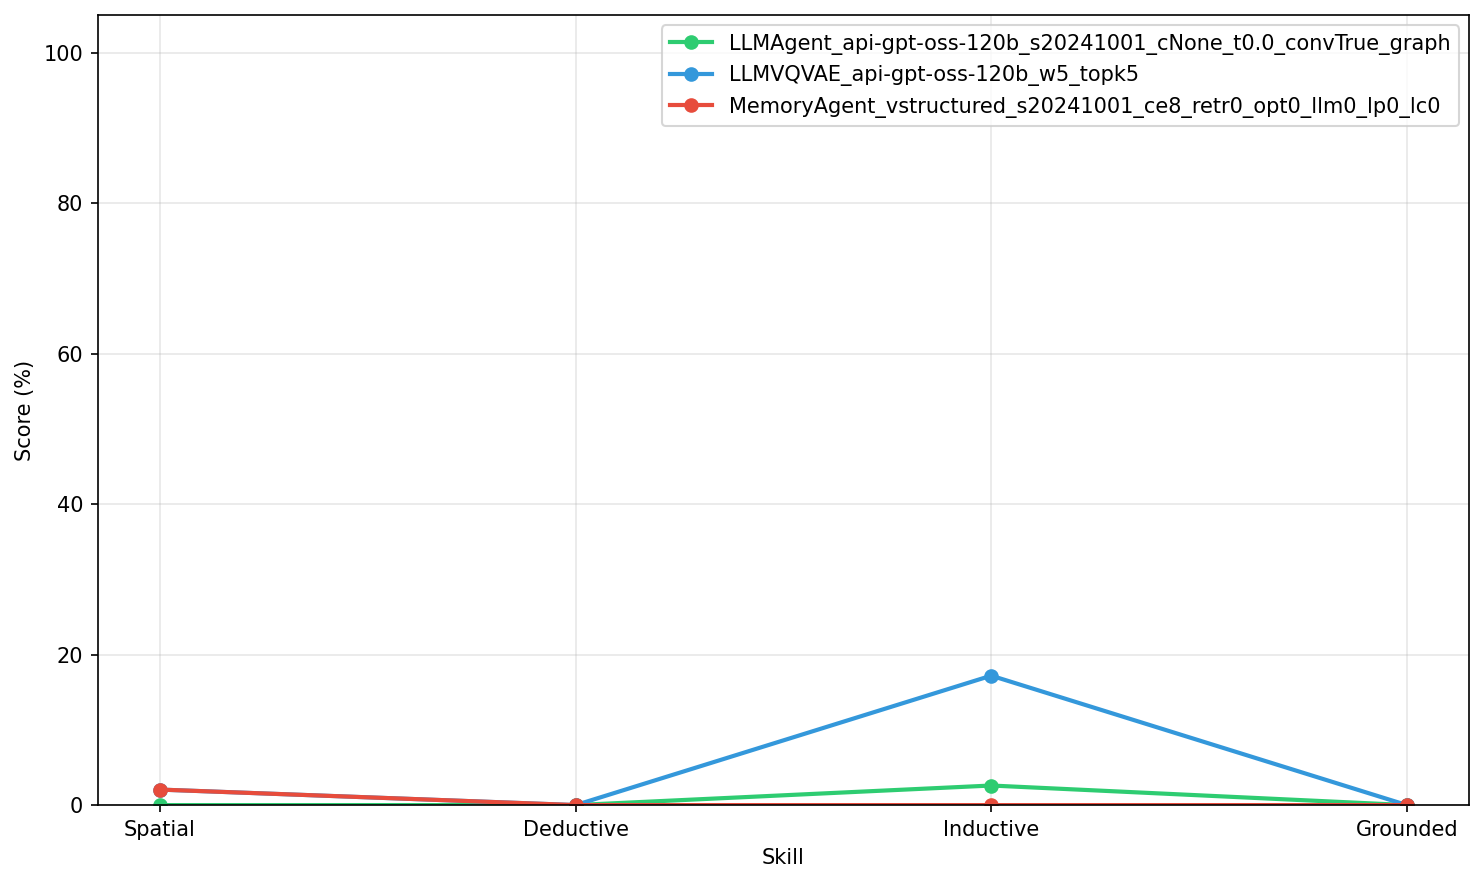
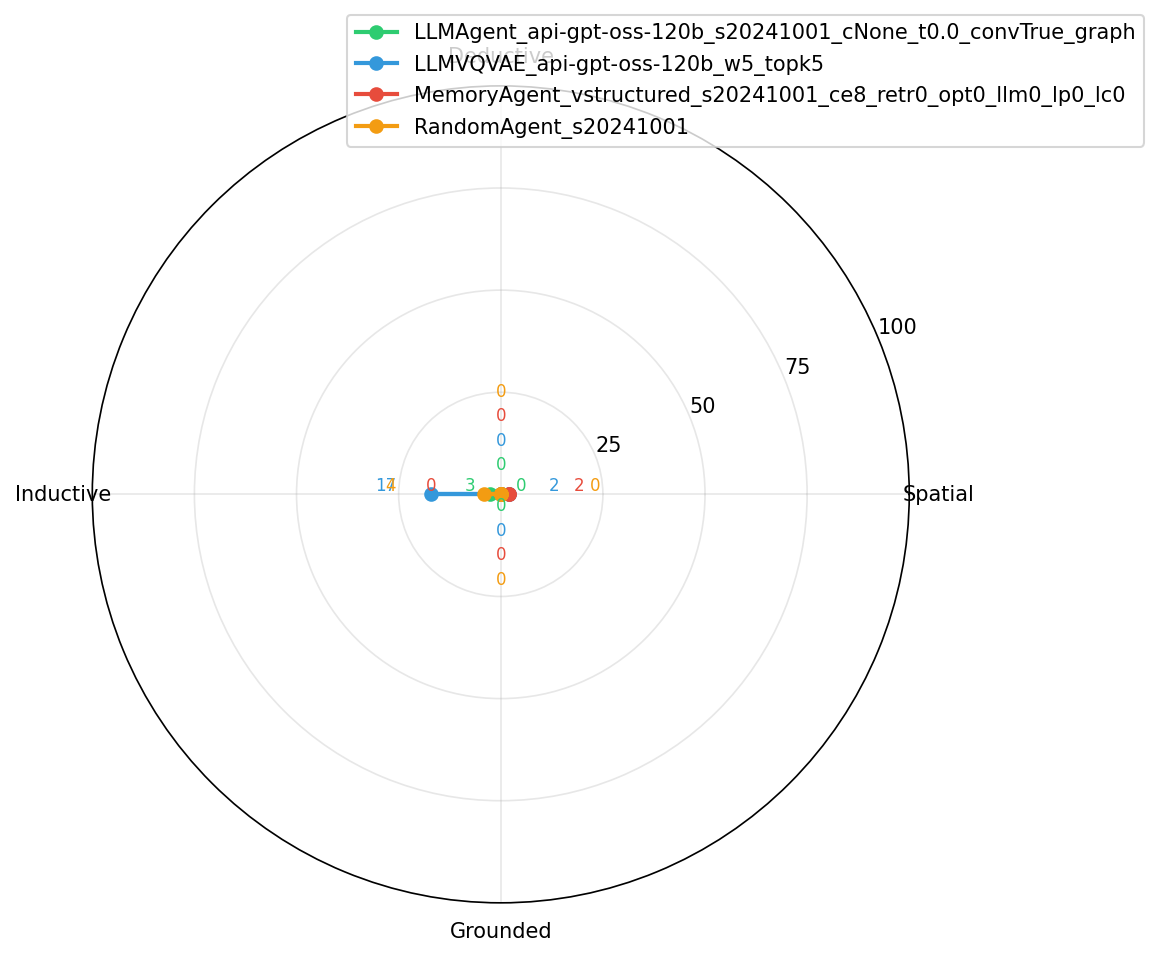
edits to documentation + skill radar plot

diff --git a/scripts/plot_results.py b/scripts/plot_results.py
@@ -1,4 +1,13 @@
-# Plot diagnostic comparison and skill profiles from diagnostic JSON files.
+"""
+Plot diagnostic comparison and skill profiles from diagnostic JSON files.
+
+Generates PNG charts in plots/:
+  - diagnostic-comparison: Bar chart of agent scores per skill (agent vs agent)
+  - skill-profiles: Radar chart of per-skill scores (each agent as polygon with numeric labels)
+  - hybrid-comparison: Base agents vs hybrid agents (graph-vqvae, memory-react, full-hybrid)
+
+Input: logs/*_diagnostic.json (from benchmark.py --output-metrics)
+"""
 
 import argparse
 import glob
@@ -65,19 +74,30 @@ def diagnostic_comparison(files, out_dir):
 
 
 def skill_profiles(files, out_dir):
+    """Radar chart: each agent as a polygon with scores (0–100) on spatial, deductive, inductive, grounded."""
     data = _load(files)
     if not data:
         raise ValueError("No data")
-    fig, ax = plt.subplots(figsize=(10, 6))
-    x = np.arange(len(SKILLS))
+    n_skills = len(SKILLS)
+    angles = np.linspace(0, 2 * np.pi, n_skills, endpoint=False).tolist()
+    angles += angles[:1]  # close polygon
+    fig, ax = plt.subplots(figsize=(8, 8), subplot_kw=dict(projection="polar"))
     for i, (name, scores, _) in enumerate(data):
-        ax.plot(x, [scores[s] * 100 for s in SKILLS], marker="o", lw=2, color=COLORS[i % len(COLORS)], label=name)
-    ax.set_ylabel("Score (%)")
-    ax.set_xlabel("Skill")
-    ax.set_xticks(x)
+        vals = [scores[s] * 100 for s in SKILLS]
+        vals += vals[:1]
+        color = COLORS[i % len(COLORS)]
+        ax.plot(angles, vals, "o-", lw=2, color=color, label=name)
+        ax.fill(angles, vals, alpha=0.2, color=color)
+        # Add numeric score labels at each vertex (offset per agent to avoid overlap)
+        label_offset = 5 + i * 6
+        for theta, r in zip(angles[:-1], vals[:-1]):
+            ax.text(theta, min(r + label_offset, 100), f"{r:.0f}", ha="center", va="bottom", fontsize=8, color=color)
+    ax.set_xticks(angles[:-1])
     ax.set_xticklabels([LABELS[s] for s in SKILLS])
-    ax.set_ylim(0, 105)
-    ax.legend()
+    ax.set_ylim(0, 100)
+    ax.set_yticks([25, 50, 75, 100])
+    ax.set_yticklabels(["25", "50", "75", "100"])
+    ax.legend(loc="upper right", bbox_to_anchor=(1.3, 1.1))
     ax.grid(True, alpha=0.3)
     plt.tight_layout()
     path = Path(out_dir) / "skill_profiles.png"

diff --git a/scripts/analyze_skill_transfer.py b/scripts/analyze_skill_transfer.py
@@ -1,5 +1,18 @@
 #!/usr/bin/env python3
-# Predict full task scores from diagnostic scores. predicted = sum(weight[skill] * diagnostic[skill]).
+"""
+Predict full-task scores from diagnostic skill profiles.
+
+Uses a linear model: predicted_score = sum(skill_weight[skill] * diagnostic_score[skill])
+per task. Fits weights from task_categories.json and diagnostic JSON. Useful to extrapolate
+from quick diagnostic runs without running full benchmarks.
+
+Inputs:
+  - --diagnostic: logs/{agent}_diagnostic.json (skill_profile or diagnostic_results)
+  - --full-benchmark: logs dir or JSON with actual full-task scores
+  - --categories: data/task_categories.json (skill_weights per env)
+
+Output: data/{agent}_transfer.json — predictions, R², per-task actual vs predicted
+"""
 
 import argparse
 import json

diff --git a/latent-action/clean_trajectories.py b/latent-action/clean_trajectories.py
@@ -1,8 +1,15 @@
 #!/usr/bin/env python3
-# Filter collected trajectories before VQ-VAE training.
-# Drops episodes that are too short, too low-reward, or too repetitive.
-# With --prune-passive: removes redundant examine/look steps within kept episodes
-# so the VQ-VAE trains on higher-quality action sequences.
+"""
+Filter collected trajectories before VQ-VAE training.
+
+Drops episodes that are too short (--min-length), too low-reward (--min-reward),
+or too repetitive (--max-repetition-rate). With --prune-passive: removes redundant
+examine/look steps within kept episodes so the VQ-VAE trains on higher-quality
+action sequences.
+
+Input: data/trajectories_raw/ or --input-dir (episode_*.json)
+Output: data/trajectories_cleaned/ or --output-dir
+"""
 
 import argparse
 import json

diff --git a/scripts/categorize_tasks.py b/scripts/categorize_tasks.py
@@ -1,5 +1,15 @@
 #!/usr/bin/env python3
-# Categorize TALES tasks by skill (spatial, deductive, inductive, grounded). Outputs task_categories.json and evaluation_subset.json.
+"""
+Categorize TALES tasks by skill and difficulty.
+
+Scans all registered TALES environments (Jericho, ALFWorld, ScienceWorld, TextWorld, etc.)
+and assigns each to a primary skill (spatial, deductive, inductive, grounded) and difficulty
+(easy/medium/hard) using env-family heuristics (e.g. TWCooking level → difficulty).
+
+Outputs:
+  - task_categories.json: {env_name: {primary_skill, difficulty, skill_weights}}
+  - evaluation_subset.json: 20 envs (5 per skill) for evaluation benchmarks
+"""
 
 import argparse
 import json

diff --git a/latent-action/train_vqvae.py b/latent-action/train_vqvae.py
@@ -1,6 +1,16 @@
 #!/usr/bin/env python3
-# Train VQ-VAE on (obs, action) windows from trajectories_cleaned.
-# Sliding windows over episodes; reconstruct next action; codebook reset for dead codes.
+"""
+Train VQ-VAE on (obs, action) windows from cleaned trajectories.
+
+Uses sliding windows over episodes; reconstructs next action. Learns patterns like
+"after examining the cookbook, taking it is often good." At inference, scores
+admissible actions to guide the LLM.
+
+Important: --window-size must match what llm_vqvae_agent uses (default 5).
+
+Input: data/trajectories_cleaned/ (episode_*.json)
+Output: checkpoints/vqvae_checkpoint.pt
+"""
 
 import argparse
 import json

diff --git a/scripts/select_diagnostic_tasks.py b/scripts/select_diagnostic_tasks.py
@@ -1,5 +1,16 @@
 #!/usr/bin/env python3
-# Select diagnostic tasks for skill evaluation. Default: evaluation_subset.json. Override: --config or --from-config.
+"""
+Select diagnostic tasks for skill evaluation.
+
+Picks one task per env from the evaluation subset so diagnostic runs cover all 4 skills
+evenly. Used for quick skill profiling before full benchmarks.
+
+Inputs:
+  - Default: data/evaluation_subset.json (from categorize_tasks.py)
+  - Override: --from-config for TWCooking-only (config/evaluation_config.yaml)
+
+Output: data/diagnostic_tasks.json — {skill: [{task, difficulty, episodes}, ...]}
+"""
 
 import argparse
 import json

diff --git a/latent-action/collect_data.py b/latent-action/collect_data.py
@@ -1,5 +1,16 @@
 #!/usr/bin/env python3
-# Runs benchmark.py per env, converts output to episode JSONs.
+"""
+Collect trajectories for VQ-VAE training.
+
+Runs rule-based collectors (diverse, noisy-walkthrough) via benchmark.py on each env.
+No LLM/API key needed. Outputs episode_*.json per env with (obs, action) steps.
+
+Collectors:
+  - diverse-collector: Exploration with varied action selection
+  - noisy-walkthrough: Walkthrough with --noise-rate (e.g. 0.15) to inject mistakes
+
+Output: data/trajectories/{collector}/ or --output-dir
+"""
 
 import argparse
 import json

diff --git a/EVALUATION_PIPELINE.md b/EVALUATION_PIPELINE.md
@@ -1,6 +1,31 @@
 # Evaluation Pipeline
 
-4 skills: spatial, deductive, inductive, grounded. Uses `data/evaluation_subset.json` (20 envs, 5 per skill).
+Evaluates text-game agents across **4 skills** (spatial, deductive, inductive, grounded) on a fixed **evaluation subset** of 20 environments (5 per skill). Produces diagnostic scores, full benchmarks, transfer analysis, and comparison plots.
+
+---
+
+## Overview: What This Pipeline Does
+
+```
+┌─────────────────────────────────────────────────────────────────────────────┐
+│ 1. Categorize     → Assigns each env to a primary skill + difficulty        │
+│ 2. Select diag    → Picks 20 tasks (5 per skill) for diagnostic evaluation  │
+│ 3. Diagnostic     → Runs graph, llm-vqvae, memory-agent on diagnostic tasks │
+│ 4. Full benchmark → Same agents on full 20-env subset                        │
+│ 5. Transfer       → Predicts full-task scores from diagnostic skill profile │
+│ 6. Hybrid agents  → graph-vqvae, memory-react, full-hybrid (if API_KEY set)  │
+│ 7. Plots          → diagnostic_comparison, skill_profiles, hybrid_comparison  │
+└─────────────────────────────────────────────────────────────────────────────┘
+```
+
+**Key files:**
+- `data/task_categories.json` — skill/difficulty per env (from step 1)
+- `data/evaluation_subset.json` — 20 envs used for evaluation (from step 1)
+- `data/diagnostic_tasks.json` — tasks per skill for diagnostic runs (from step 2)
+- `logs/*_diagnostic.json` — per-agent diagnostic metrics (from step 3)
+- `plots/` — PNG comparison charts (from step 7)
+
+---
 
 ## Quick Start (Full Pipeline)
 
@@ -36,17 +61,36 @@ cd /root/tale-suite   # or your repo path
 pip install -r requirements.txt
 ```
 
-**Note:** `collect_data.py` (steps 2a–2b) uses rule-based collectors—no API key needed. Steps 4+ use LLM agents and **require** a TritonAI API key.
+**Note:** `collect_data.py` (step 2) uses rule-based collectors—no API key needed. Steps 4+ use LLM agents and **require** a TritonAI API key.
+
+---
 
 ### 1. Create Evaluation Subset (if missing)
+
+**Script:** `scripts/categorize_tasks.py`
+
+**What it does:** Scans all TALES environments (Jericho, ALFWorld, ScienceWorld, TextWorld, etc.) and assigns each to a primary skill (spatial, deductive, inductive, grounded) and difficulty. Uses heuristics per env family (e.g. TWCooking levels → difficulty).
+
+**Outputs:**
+- `data/task_categories.json` — `{env_name: {primary_skill, difficulty, skill_weights}}`
+- `data/evaluation_subset.json` — 20 envs (5 per skill) for evaluation
 
 ```bash
 python scripts/categorize_tasks.py -o data/task_categories.json
 ```
 
-Outputs: `data/task_categories.json`, `data/evaluation_subset.json` (20 envs, 5 per skill).
+---
 
 ### 2. VQ-VAE Training (required for llm-vqvae and graph-vqvae hybrid)
+
+**Location:** `latent-action/` (run from repo root or `cd latent-action`)
+
+**What it does:** Trains a VQ-VAE on (observation, action) windows from trajectories. The model learns patterns like "after examining the cookbook, taking it is often good." At inference, it scores admissible actions to guide the LLM.
+
+**Substeps:**
+- **2a. Collect** — `collect_data.py` runs rule-based collectors (diverse, noisy-walkthrough) that play games without LLMs. Outputs `episode_*.json` per env.
+- **2b. Clean** — `clean_trajectories.py` drops episodes that are too short, low-reward, or repetitive.
+- **2c. Train** — `train_vqvae.py` trains on sliding windows; `--window-size` must match inference (e.g. 5).
 
 ```bash
 cd latent-action
@@ -82,13 +126,23 @@ cd ..
 
 ### 3. Select Diagnostic Tasks
 
+**Script:** `scripts/select_diagnostic_tasks.py`
+
+**What it does:** Picks one task per env from the evaluation subset so that diagnostic runs cover all 4 skills evenly. Produces `data/diagnostic_tasks.json` used by the benchmark for quick skill profiling.
+
 ```bash
 python scripts/select_diagnostic_tasks.py -o data/diagnostic_tasks.json
 ```
 
 TWCooking-only: `--from-config config/evaluation_config.yaml`
 
+---
+
 ### 4. Run Full Evaluation Pipeline
+
+**Script:** `scripts/run_full_evaluation.sh`
+
+**What it does:** Orchestrates steps 1–7 in one run: categorize, select diagnostic tasks, run diagnostic benchmarks (graph, llm-vqvae, memory-agent), full benchmark on 20 envs, transfer analysis, hybrid agents (if API key set), and plots.
 
 **Standard** (nb-steps 100 full / 50 diagnostic):
 
@@ -119,11 +173,19 @@ Pipeline steps (all agents use `--admissible-commands --seed 20241001`):
 
 ### 5. Optional: Hybrid Weight Sensitivity
 
+**Script:** `scripts/run_hybrid_evaluation.sh`
+
+**What it does:** Sweeps over hybrid weight combinations (e.g. graph 0.4–0.8, vqvae 0.2–0.6) to find optimal blends. Useful for tuning before reporting final numbers.
+
 ```bash
 ./scripts/run_hybrid_evaluation.sh
 ```
 
+---
+
 ### 6. Verify Outputs
+
+**What to check:** `logs/*_diagnostic.json` contain per-agent, per-skill scores. `plots/` contains PNG charts (diagnostic comparison, skill profiles, hybrid comparison).
 
 ```bash
 ls logs/*_diagnostic.json
@@ -137,18 +199,26 @@ ls plots/
 Use explicit `--api-key "your-key"` in all commands. Replace with your TritonAI key.
 
 ### 1. Categorize tasks
+
+Assigns skill/difficulty to envs; writes evaluation subset. See step 1 above.
+
 ```bash
 python scripts/categorize_tasks.py -o data/task_categories.json
 ```
 Outputs: `task_categories.json`, `evaluation_subset.json` (20 tasks, 5 per skill).
 
 ### 2. Select diagnostic tasks
+
+Picks one task per env for diagnostic runs. See step 3 above.
+
 ```bash
 python scripts/select_diagnostic_tasks.py -o data/diagnostic_tasks.json
 ```
 TWCooking-only: `--from-config config/evaluation_config.yaml`
 
 ### 3. Diagnostic benchmark (standard: nb-steps 50)
+
+Runs graph, llm-vqvae, and memory-agent on diagnostic tasks only. Writes `logs/*_diagnostic.json` with per-skill scores. Shorter than full benchmark (50 vs 100 steps).
 ```bash
 python benchmark.py --agent agents/graph_agent.py graph \
   --diagnostic-tests data/diagnostic_tasks.json \
@@ -169,6 +239,9 @@ python benchmark.py --agent agents/memory_agent.py memory-agent \
 ```
 
 ### 4. Full benchmark (standard: nb-steps 100)
+
+Runs the same three agents on all 20 envs in the evaluation subset. Longer runs (100 steps) for final scores. Outputs go to stdout and benchmark logs.
+
 ```bash
 ENVS=$(python -c "import json; print(' '.join(json.load(open('data/evaluation_subset.json'))['envs']))")
 
@@ -186,6 +259,9 @@ python benchmark.py --agent agents/memory_agent.py memory-agent --envs $ENVS \
 ```
 
 ### 5. Hybrid agents (standard weights)
+
+Runs graph-vqvae (graph + VQ-VAE), memory-react (memory + ReAct), and full-hybrid (all four components). Requires VQ-VAE checkpoint and API key.
+
 ```bash
 VQVAE="latent-action/checkpoints/vqvae_checkpoint.pt"
 COMMON="--admissible-commands --seed 20241001"
@@ -205,12 +281,22 @@ python benchmark.py --agent agents/hybrid_agents.py full-hybrid --envs $ENVS \
 ```
 
 ### 6. Skill transfer analysis
+
+**Script:** `scripts/analyze_skill_transfer.py`
+
+Predicts full-task scores from diagnostic skill profiles using a linear model. Writes `data/*_transfer.json` (e.g. `graph_transfer.json`). Useful to extrapolate from quick diagnostic runs.
+
 ```bash
 python scripts/analyze_skill_transfer.py -d logs/graph_diagnostic.json \
   -f logs -c data/task_categories.json -o data/graph_transfer.json
 ```
 
 ### 7. Plots
+
+**Script:** `scripts/plot_results.py`
+
+Generates PNG charts from diagnostic logs: `diagnostic_comparison` (agent vs agent), `skill_profiles` (per-skill breakdown), `hybrid_comparison` (hybrid vs base agents).
+
 ```bash
 python scripts/plot_results.py diagnostic-comparison -m logs/*_diagnostic.json -o plots/
 python scripts/plot_results.py skill-profiles -m logs/*_diagnostic.json -o plots/
